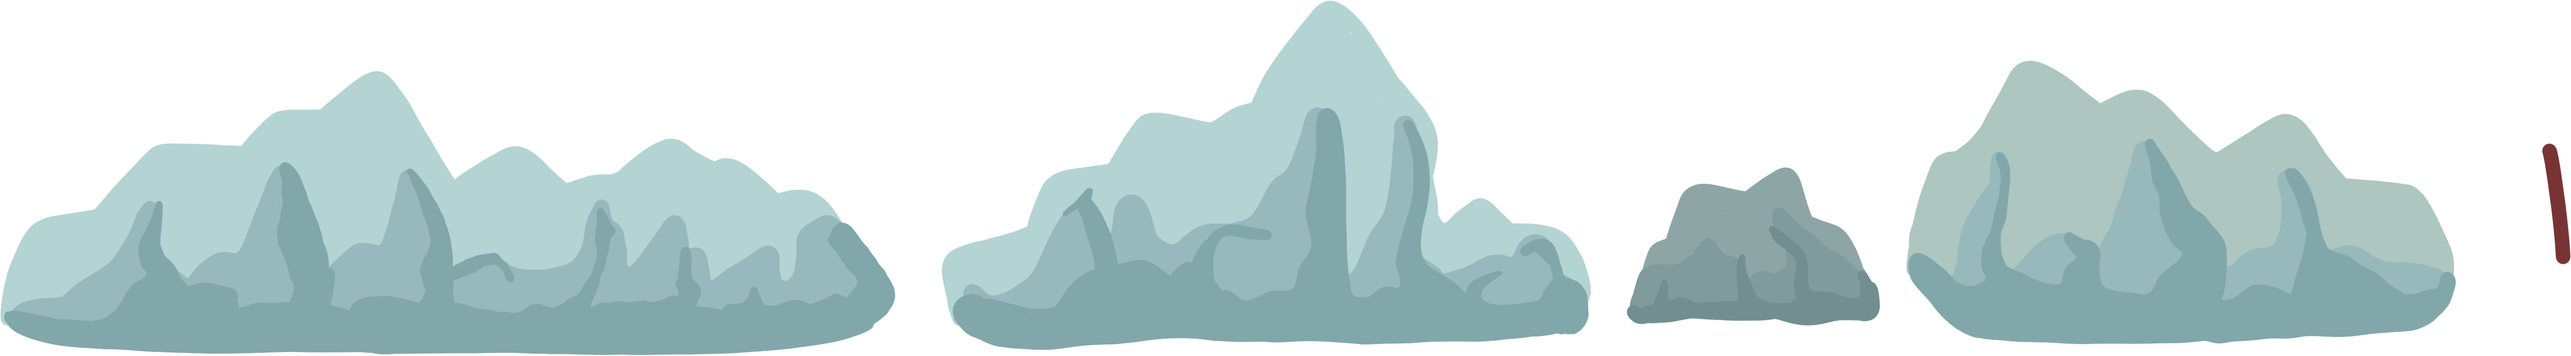
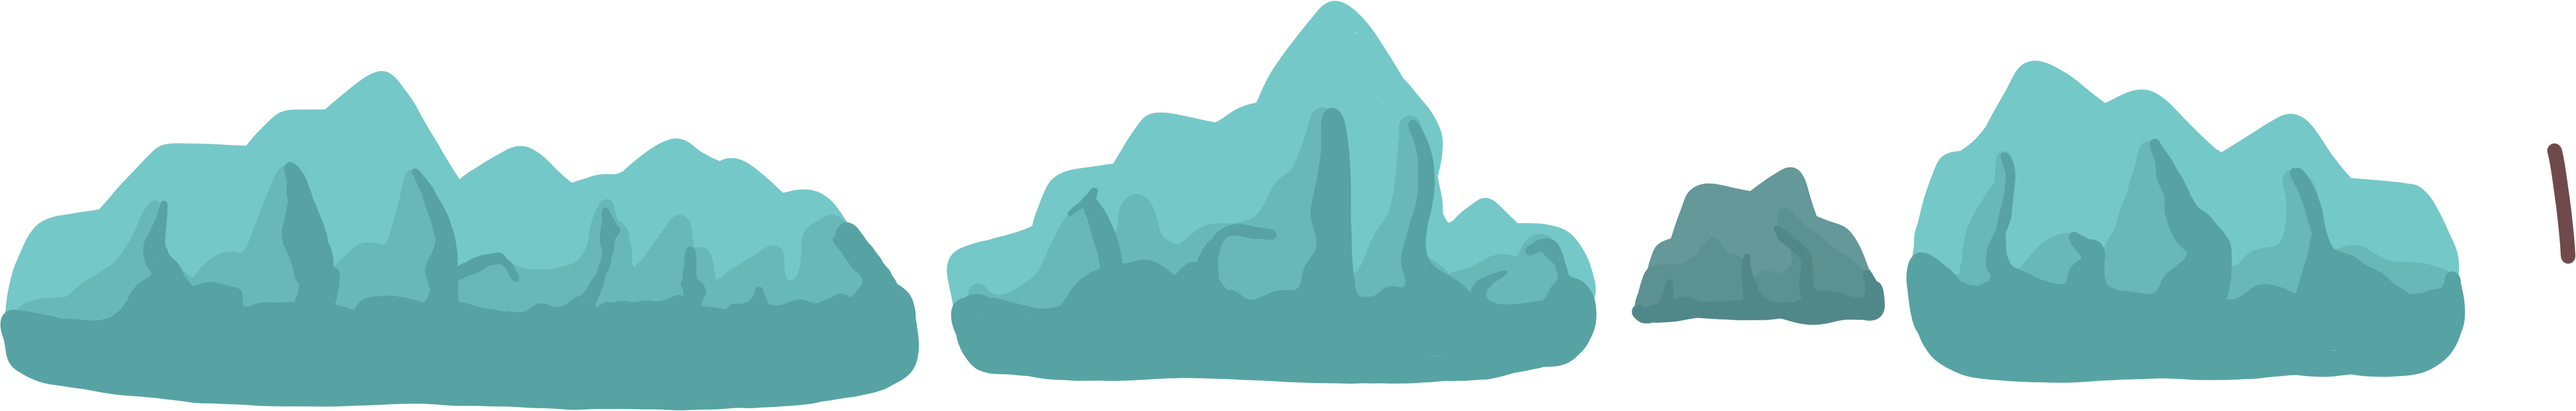
cambio de sprites y tilemap en nivel3

diff --git a/src/scenes/Nivel3.js b/src/scenes/Nivel3.js
@@ -54,7 +54,13 @@ export default class Nivel3 extends Phaser.Scene {
     const glaciares3Layer = map
       .createLayer("glaciers3", capaGlaciares3, 0, 0)
       .setOrigin(0, 1)
-      .setScrollFactor(1);
+      .setScrollFactor(0.95);
+
+      const capaAgua3 = map.addTilesetImage("aguaFrente", "aguaFrente");
+      const Agua3Layer = map
+        .createLayer("water3", capaAgua3, 0, 0)
+        .setOrigin(0, 1)
+        .setScrollFactor(1.2);
 
     const capaPlataformas = map.addTilesetImage("plataformas", "plataformas3");
     const plataformaLayer = map.createLayer("platforms", capaPlataformas, 0, 0);
